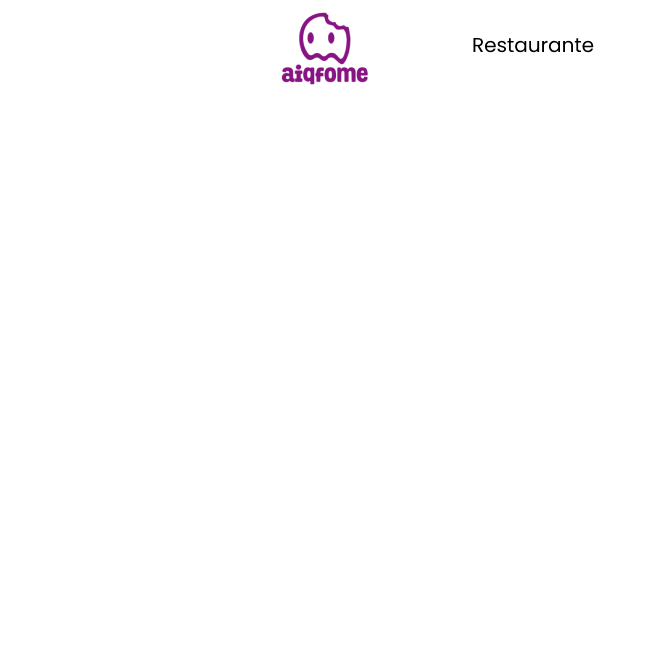
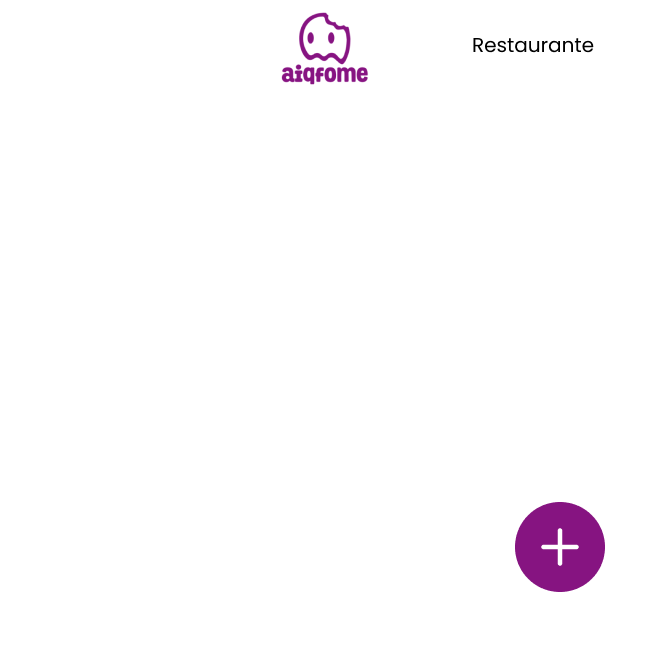
new screen

Changed region(s): [[0.7692, 0.7692, 0.9538, 0.9231]]

diff --git a/src/entities/screens/Cardapio.java b/src/entities/screens/Cardapio.java
@@ -13,13 +13,14 @@ public class Cardapio extends Janela {
     public Cardapio(String title, ImageIcon background, boolean visible, Restaurante restaurante){
         super(title, background, true);
         this.restaurante = restaurante;
+        this.addButton();
         this.showMenu();
     }
 
     public void showMenu(){
         JTextArea menuTextArea = new JTextArea();
         menuTextArea.setEditable(false);
-        menuTextArea.setBounds(50, 50, 500, 500);
+        menuTextArea.setBounds(50, 70, 300, 300);
 
         StringBuilder menuText = new StringBuilder("Cardápio:\n");
         for (Lanche lanche : restaurante.getCardapio()){
@@ -27,5 +28,18 @@ public class Cardapio extends Janela {
         }
         menuTextArea.setText(menuText.toString());
         this.label.add(menuTextArea);
+    }
+
+    public void addButton(){
+        JButton botao = new JButton("");
+        botao.setBounds(505, 485, 90, 90);
+        botao.setBorderPainted(false);
+        botao.setContentAreaFilled(false);
+        botao.setVisible(true);
+        botao.addActionListener(e -> {
+            AddCardapio addCardapio = new AddCardapio("Adicionar ao carrinho", new ImageIcon(Objects.requireNonNull(Cardapio.class.getResource("../../Image/carrinho.png"))), true);
+        });
+        this.label.add(botao);
+        label.setVisible(true);
     }
 }

diff --git a/src/entities/screens/AddCardapio.java b/src/entities/screens/AddCardapio.java
@@ -1,2 +1,13 @@
-package entities.screens;public class addCardapio {
+package entities.screens;
+import entities.Janela;
+import entities.Restaurante;
+
+import javax.swing.*;
+
+public class AddCardapio extends Janela{
+
+    public AddCardapio(String title, ImageIcon background, boolean visible){
+        super(title, background, true);
+    }
+
 }
